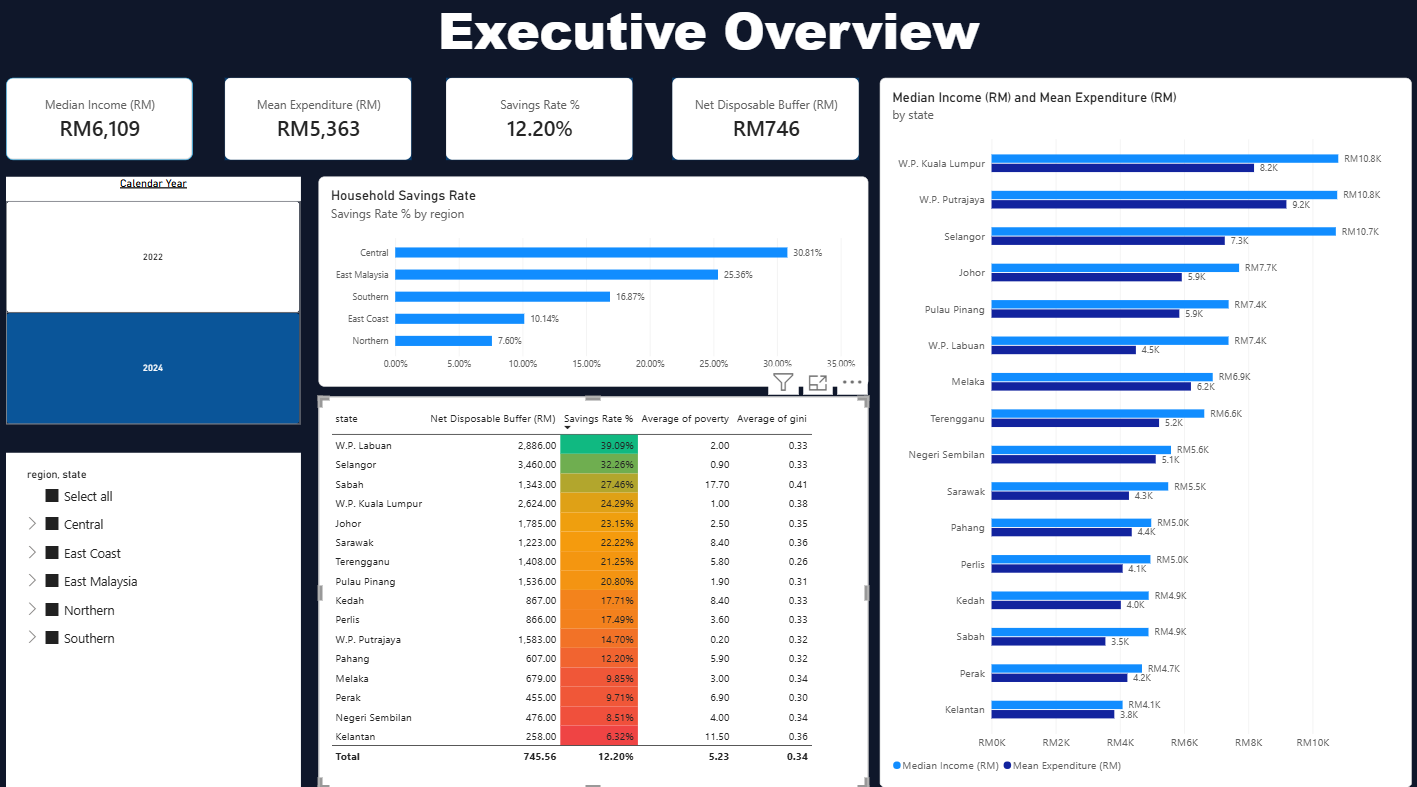
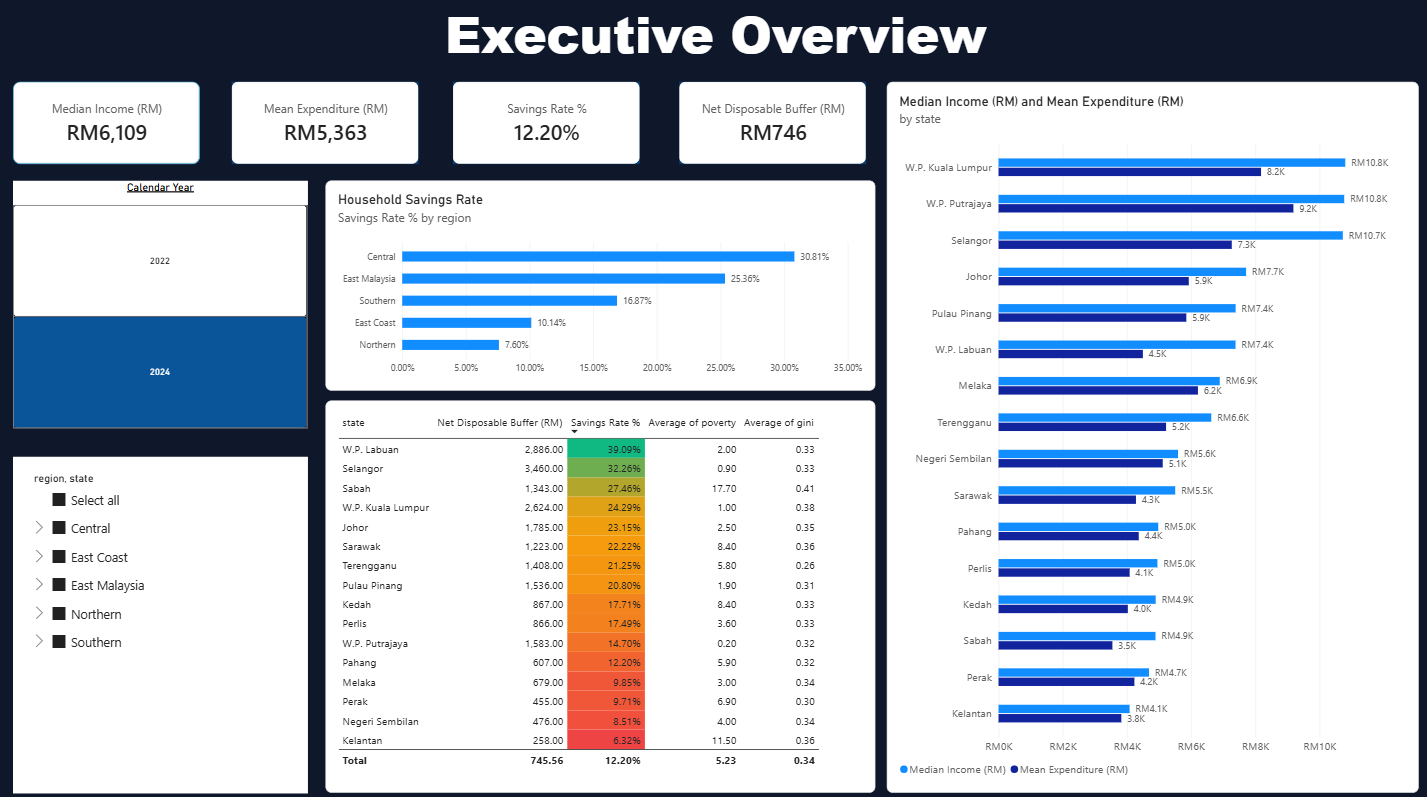
Update README pipeline description and dashboard overview image

diff --git a/README.md b/README.md
@@ -42,16 +42,15 @@ malaysia-household-economy-analytics/
 
 ---
 
-## 🛠 Tech Stack & Workflow
-
-1. **Python & Jupyter Notebook (`01_python_etl`)**:
-   - Data cleaning, missing value handling, column standardization, and schema normalization into star-schema dimension & fact tables.
-2. **SQL (`02_sql_analysis`)**:
-   - Advanced analytical queries using window functions (`LAG()`), subqueries, and views (`vw_state_affordability_summary`) to compare wage growth against inflation.
-3. **Microsoft Excel (`03_excel_simulator`)**:
-   - Financial modeling, scenario simulation, and disposable income sensitivity analysis.
-4. **Power BI (`04_powerbi_dashboard`)**:
-   - Executive dashboard reporting macro indicators, state-by-state comparisons, and category-level inflation drivers.
+## 🛠 Tech Stack & End-to-End Pipeline
+1. **Python (`Pandas`):
+** Cleaned 3 raw OpenDOSM datasets (`cpi_2d_state.csv`, `hies_state.csv`, `hh_income_state.csv`), resolved 1970 missing values, mapped 2-digit UN COICOP division codes to readable categories, aggregated monthly CPI readings (`45,024 rows`) into annual indices, and engineered a master `dim_states` regional reference table.
+2. **MySQL (`CTEs`, `Window Functions`, `Views`):
+** Designed a relational database (`malaysia_economy_db`), authored multi-table `INNER JOIN` queries, ranked state affordability via `DENSE_RANK() OVER (PARTITION BY region)`, evaluated survey-over-survey wage growth against inflation using `LAG()`, and deployed a reusable summary view (`vw_state_affordability_summary`).
+3. **Microsoft Excel (`PivotTables`, `XLOOKUP`, `What-If Modeling`):
+** Built a regional audit PivotTable and an interactive **Household Inflation Stress-Test Simulator** using multi-criteria `XLOOKUP` and conditional risk formatting to model the impact of an `+8.0%` cost-of-living shock on state household buffers.
+4. **Power BI (`Star Schema`, `Explicit DAX`):
+** Modeled a `1-to-Many (1:*)` Star Schema using `Dim_States` and a DAX `GENERATESERIES` calendar table (`Dim_Calendar`), authored custom DAX measures for non-consecutive survey growth (`Wage Growth %`), and designed a 2-page executive dashboard.
 
 ---
 
